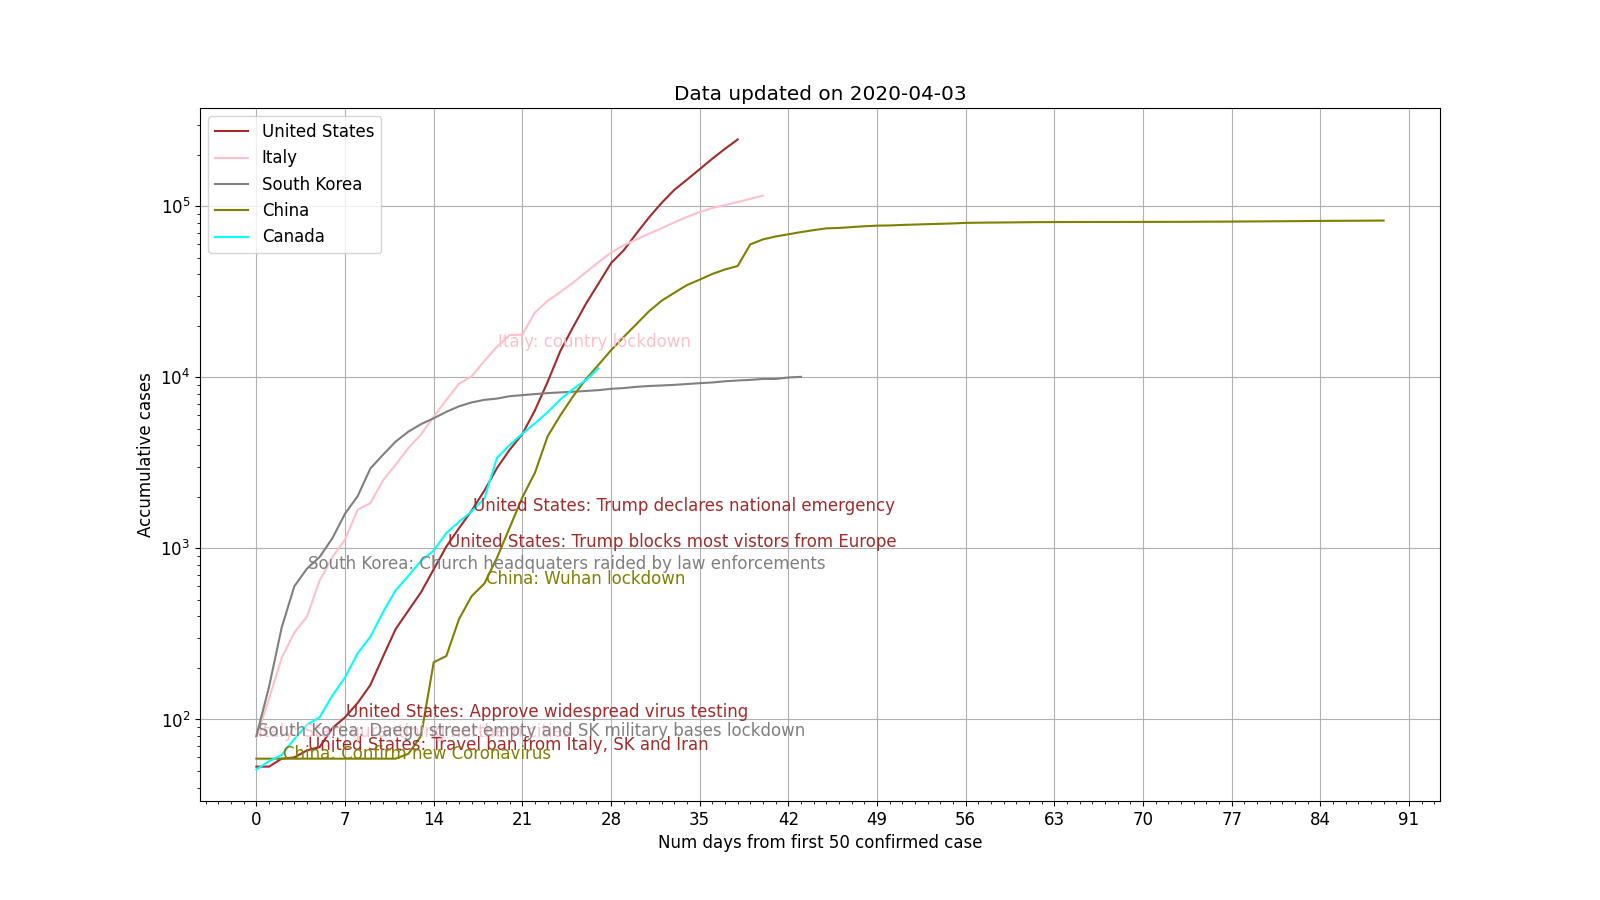
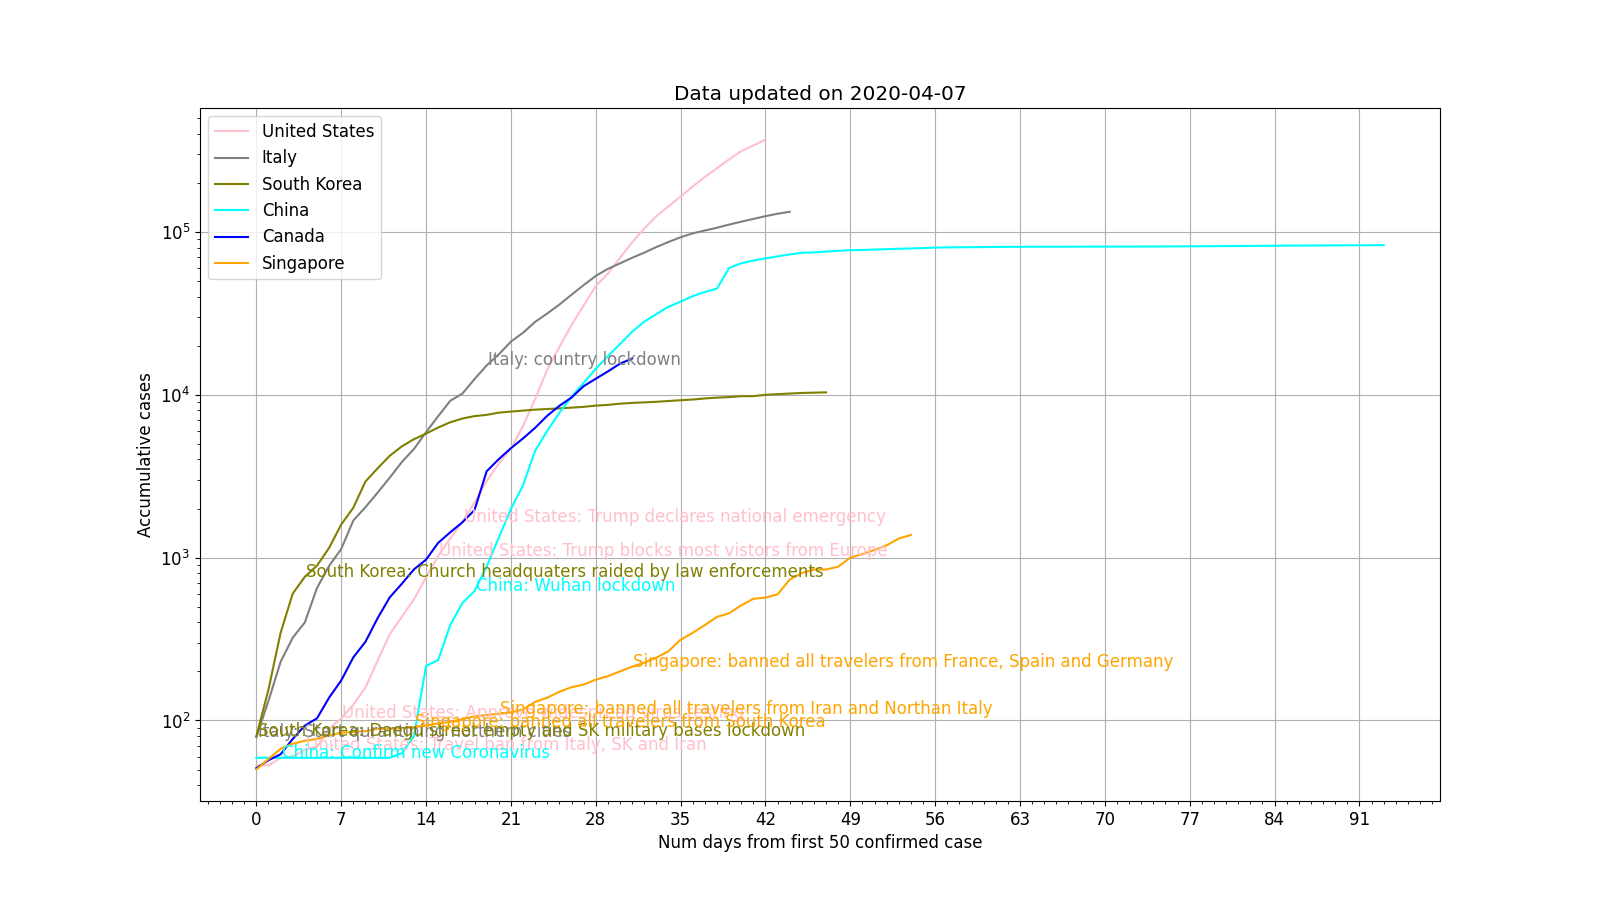
added Singapore to plots

diff --git a/analysis.py b/analysis.py
@@ -32,7 +32,7 @@ def hashval(str, siz):
     return (hash % siz)  # Depending on the range, do a modulo operation.
 
 
-colors = ['blue', 'orange', 'green', 'red', 'purple', 'brown', 'pink', 'gray', 'olive', 'cyan']
+colors = ['blue', 'orange', 'green', 'red', 'purple', 'lightblue', 'pink', 'gray', 'olive', 'cyan']
 color_index = -1
 
 
@@ -182,9 +182,13 @@ class DataModel(object):
                     existing_cases.append(plot_data.existing_y[i])
                     daily_incrementals.append(y)
             plt.plot(existing_cases, daily_incrementals,
-                     label=self.target_data.label, color=color)
+                     label=self.target_data.label)
             plt.scatter(existing_cases, daily_incrementals,
-                        label=None, color=color)
+                        label=None)
+            # plt.plot(existing_cases, daily_incrementals,
+            #          label=self.target_data.label, color=color)
+            # plt.scatter(existing_cases, daily_incrementals,
+            #             label=None, color=color)
 
             plt.xscale('log')
             plt.xlabel(f"Accumulative cases from first {str(y_threshold)} confirmed case")

diff --git a/main.py b/main.py
@@ -6,7 +6,9 @@ if __name__ == '__main__':
         "Italy",
         "South Korea",
         "China",
-        "Canada"]
+        "Canada",
+        "Singapore",
+    ]
     country_incremental_comparison(country_names)
     save_plot("plots/country_incrementals.png")
 
